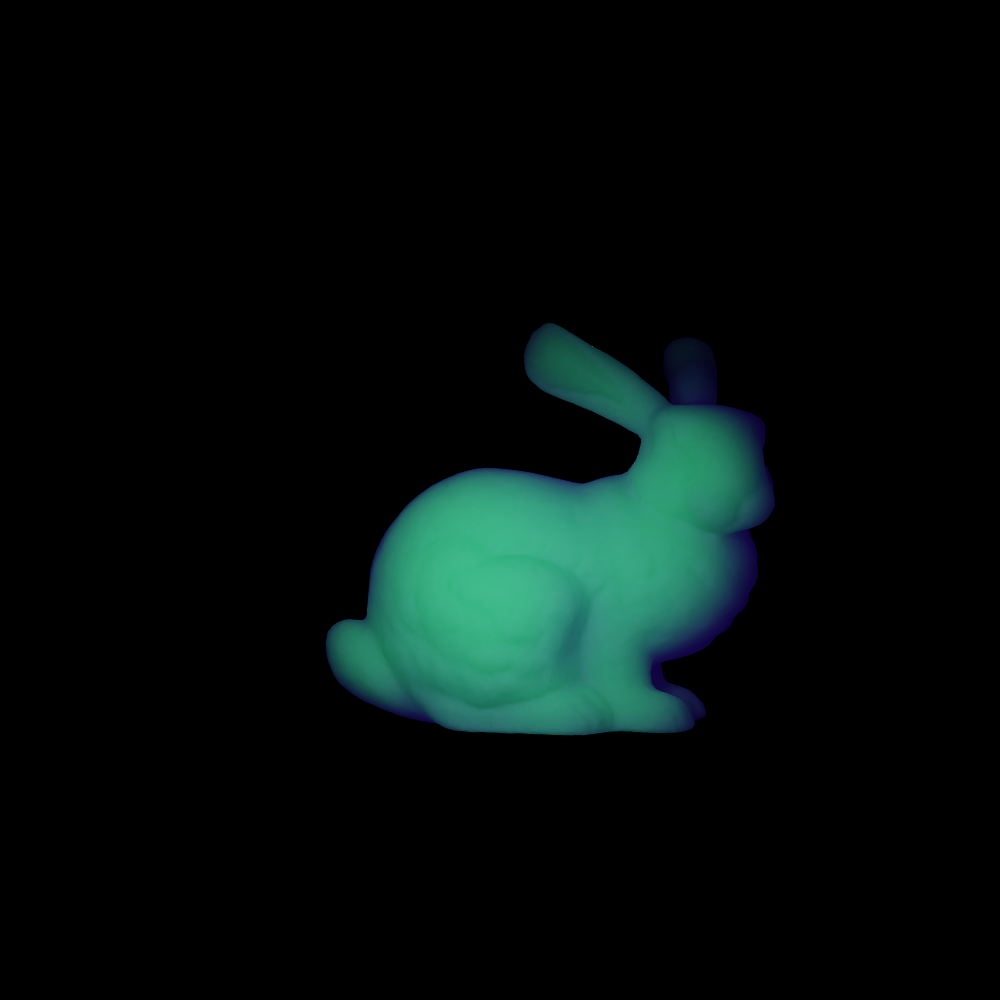
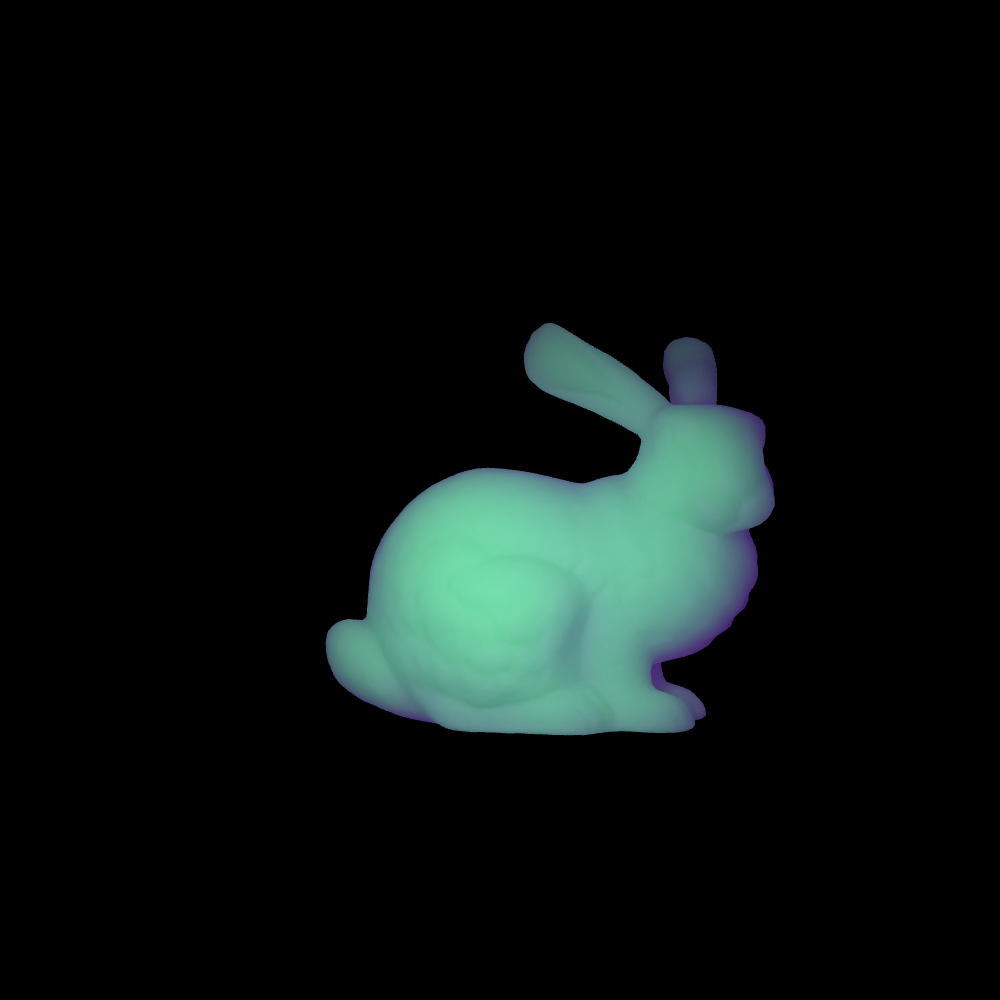
aces => linear2srgb

Changed region(s): [[0.31, 0.31, 0.775, 0.744]]

diff --git a/src/main.py b/src/main.py
@@ -318,6 +318,14 @@ def collect_vertex_influx() -> luisa.Buffer:
     return vertex_influx_buffer
 
 
+@luisa.func
+def linear_to_srgb(x):
+    return clamp(select(1.055 * x ** (1.0 / 2.4) - 0.055,
+                        12.92 * x,
+                        x <= 0.00031308),
+                 0.0, 1.0)
+
+
 def main():
     res = (1000, 1000)
     camera = Camera(Vector3([0.0, 1.0, 8.0]), Vector3([0.0, 0.5, 0.0]), res, 20.0)
@@ -341,14 +349,16 @@ def main():
             #version 330
             in vec4 f_efflux;
             out vec4 f_color;
-            vec3 aces_tone_mapping(vec3 color)
+            vec3 linear_to_srgb(vec3 color)
             {
-                vec3 mapped = color * (2.51 * color + 0.03) / (color * (2.43 * color + 0.59) + 0.14);
-                return clamp(mapped, 0.0, 1.0);
+                vec3 a = 1.055 * pow(color, vec3(1.0 / 2.4)) - 0.055;
+                vec3 b = 12.92 * color;
+                vec3 cut_off = vec3(lessThan(color, vec3(0.00031308)));
+                return clamp(mix(a, b, cut_off), 0.0, 1.0);
             }
             void main()
             {
-                f_color = vec4(aces_tone_mapping(f_efflux.rgb), 1.0);
+                f_color = vec4(linear_to_srgb(f_efflux.rgb), 1.0);
             }
         """
     )
@@ -484,7 +494,7 @@ def main():
     buffer = bytearray(res[0] * res[1] * 4 * 4)
     render_target.read_into(buffer)
     postfix = sys.argv[1].split('/')[-1].split('\\')[-1].split('.')[0] + '-' + str(equation).lower().split('.')[-1]
-    plt.imsave(f"result-{postfix}.png", np.frombuffer(buffer, dtype=np.float32).reshape(res + (-1,))[::-1, ::-1])
+    plt.imsave(f"result-teaser-{postfix}.png", np.frombuffer(buffer, dtype=np.float32).reshape(res + (-1,))[::-1, ::-1])
 
 
 if __name__ == "__main__":

diff --git a/README.md b/README.md
@@ -4,8 +4,6 @@ Render subsurface scattering via convolution over vertices on the mesh.
 
 ![teaser-dipole](https://github.com/LeonKang130/DiscretizedDiffusion/blob/main/result-teaser-dipole.png)
 
-![teaser-normalized](https://github.com/LeonKang130/DiscretizedDiffusion/blob/main/result-teaser-normalized.png)
-
 The method can be divided into three steps:
 
 - Gather influx around each vertex of the mesh using path tracing(or rasterization if no surface light is involved in the scene).
